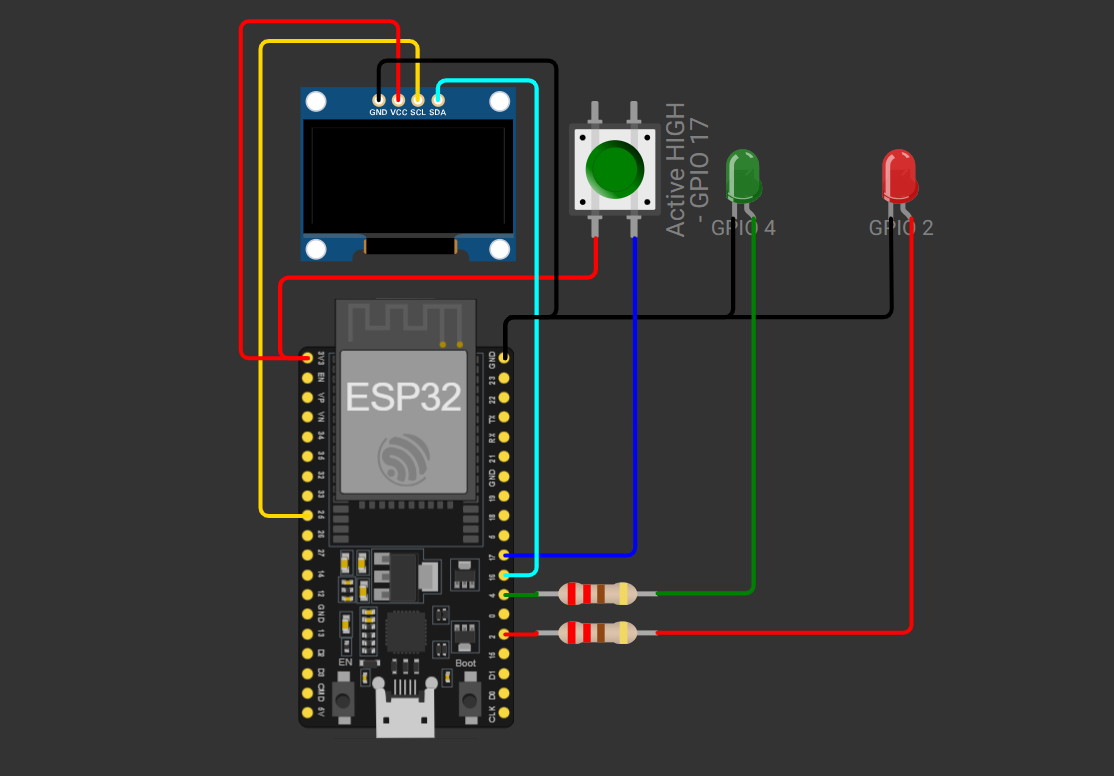
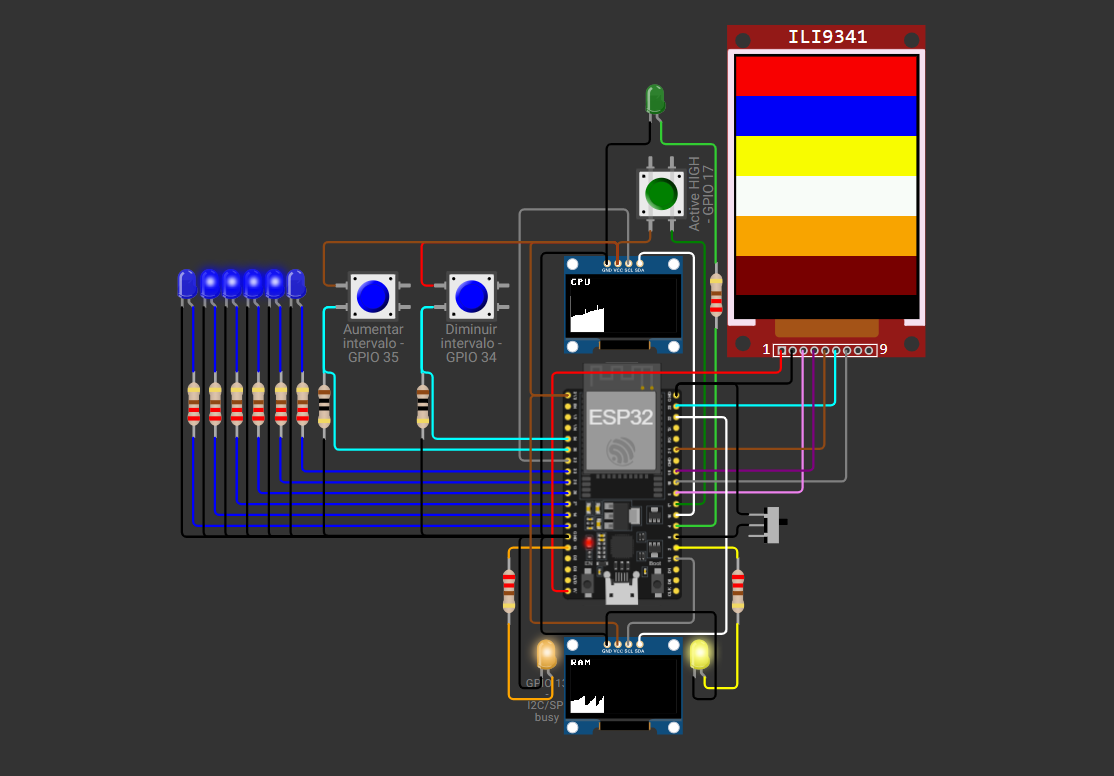
.
.

diff --git a/docs/EN/technical-specification.md b/docs/EN/technical-specification.md
@@ -1,4 +1,4 @@
-# Technical Specification — cess-uff
+# Technical Specification — esp32-asyncio
 
 ## 1. Document control
 
@@ -125,7 +125,7 @@ assignment for the rest of the project (see §6.3).
 | Wokwi component IDs | kebab-case | `red-led`, `green-led`, `push-button`, `oled-display` |
 | Python variables | snake_case | `red_led`, `green_led`, `push_button`, `oled_display` |
 | Python pin constants | UPPER_SNAKE_CASE | `RED_LED_PIN`, `GREEN_LED_PIN`, `BUTTON_PIN`, `OLED_SCL_PIN`, `OLED_SDA_PIN` |
-| Repository folder | kebab-case | `cess-uff` |
+| Repository folder | kebab-case | `esp32-asyncio` |
 
 All source code, comments and documentation are written in English. The two
 OLED display strings (`Boa sorte!` / `Consegui`) are a deliberate

diff --git a/docs/PT/technical-specification.md b/docs/PT/technical-specification.md
@@ -1,4 +1,4 @@
-# Especificação técnica — cess-uff
+# Especificação técnica — esp32-asyncio
 
 ## 1. Controle do documento
 
@@ -390,7 +390,7 @@ Benefícios:
 ## 10. Estrutura do repositório
 
 ```text
-cess-uff/
+esp32-asyncio/
 ├── main.py
 ├── ssd1306.py
 ├── diagram.json

diff --git a/docs/PT/component-specifications.md b/docs/PT/component-specifications.md
@@ -1,4 +1,4 @@
-# Especificações dos componentes — cess-uff
+# Especificações dos componentes — esp32-asyncio
 
 Este documento apresenta uma ficha de especificação para cada componente
 físico ou simulado utilizado em `diagram.json`. As fichas são mantidas

diff --git a/docs/EN/component-specifications.md b/docs/EN/component-specifications.md
@@ -1,4 +1,4 @@
-# Component Specifications — cess-uff
+# Component Specifications — esp32-asyncio
 
 One specification sheet per physical/simulated component used in
 `diagram.json`, kept separate from the design rationale in

diff --git a/README.md b/README.md
@@ -1,4 +1,4 @@
-# cess-uff
+# esp32-asyncio
 
 ESP32 (MicroPython) practical assessment — Instrumentation, Electronics
 and Programming Logic.

diff --git a/docs/EN/README.md b/docs/EN/README.md
@@ -1,4 +1,4 @@
-# cess-uff
+# esp32-asyncio
 
 **Language / Idioma:** [English](README.md) | [Português](../PT/README.md)
 

diff --git a/docs/PT/README.md b/docs/PT/README.md
@@ -1,4 +1,4 @@
-# cess-uff
+# esp32-asyncio
 
 **Language / Idioma:** [English](../EN/README.md) | [Português](README.md)
 
